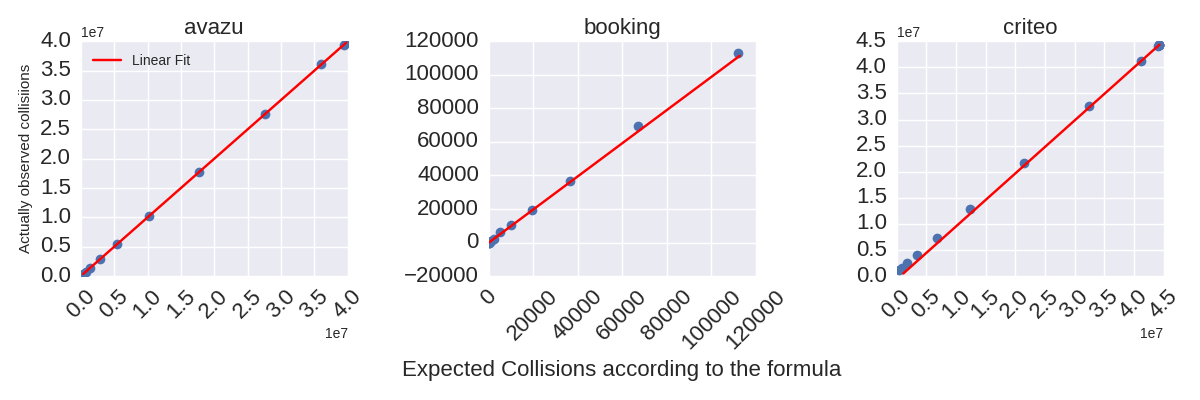
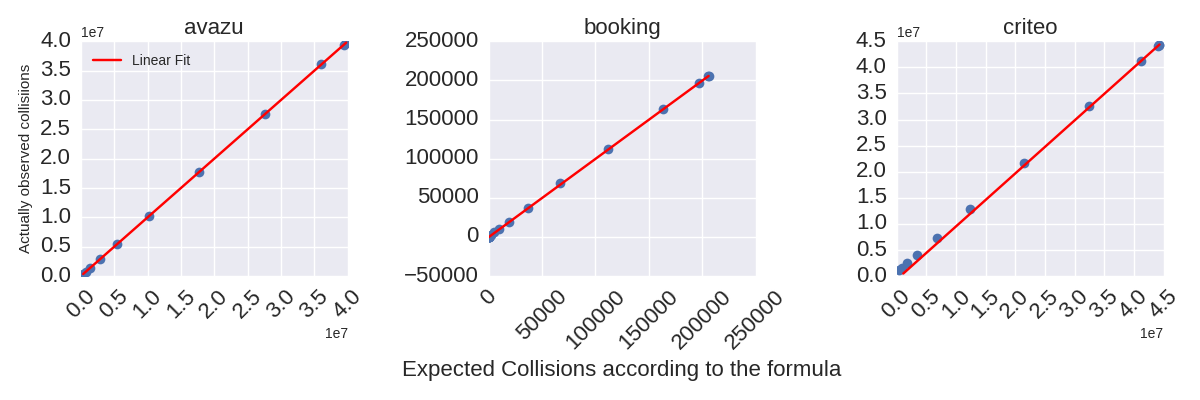
fixed

diff --git a/Plots.py b/Plots.py
@@ -5,7 +5,7 @@ import seaborn
 import numpy as np
 
 def e_collisions(k, N):
-	c = k*(1-(1-1./N)**(k-1))	
+	c = k*(1-(1-1./N)**(k-1))
 	#c =  k-N*(1.-((N-1.)/N)**k)
 	return c
 
@@ -19,10 +19,15 @@ def plot_model():
 	        data = csv.reader(open(prefix+'_col_log.csv'), delimiter=' ')
 	        n, c = [], []
 	        features = None
+		all_collided_counter = 0
 	        for row in data:
 	                bits, features, collisions = map(float, row)
+			if collisions==features:
+				all_collided_counter+=1
 	                n.append(2**bits)
 	                c.append(collisions)
+		n = n[all_collided_counter-1:]
+		c = c[all_collided_counter-1:]
 	        ec = []
 	        for ni in n:
 	                ec.append(e_collisions(features, ni))
@@ -49,26 +54,32 @@ def plot_model():
 
 def plot_impact(prefix):
 	data = csv.reader(open(prefix+'_col_log.csv'), delimiter=' ')
+        loss_data = csv.reader(open(prefix+'_hash_log.csv'), delimiter=' ')
+        l = []
+	g = 0
 	x, n, c = [], [], []
 	features = None
 	for row in data:
+		loss_row = loss_data.next()
+                bits, loss = map(float, loss_row)
 		bits, features, collisions = map(float, row)
+		if collisions == features:
+			g+=1
+		l.append(loss)
 		n.append(2**bits)
 		x.append(collisions/features)
 		c.append(collisions)
-
+	
+	x = x[g-1:]
+	l = l[g-1:]
+	n = n[g-1:]
+	c = c[g-1:]
 	fig, ax1 = plt.subplots()
 	ax1.set_yscale('log', basey=2)
 	ax1.plot(x, n, 'bo-')
 	ax1.set_xlabel('% Collisions')
 	ax1.set_ylabel('Hash Size (n)', color='b')
 	ax1.tick_params('y', colors='b')
-
-	data = csv.reader(open(prefix+'_hash_log.csv'), delimiter=' ')
-	l = []
-	for row in data:
-		bits, loss = map(float, row)
-		l.append(loss)
 
 	ax2 = ax1.twinx()
 	ax2.plot(x, l, 'ro-')
